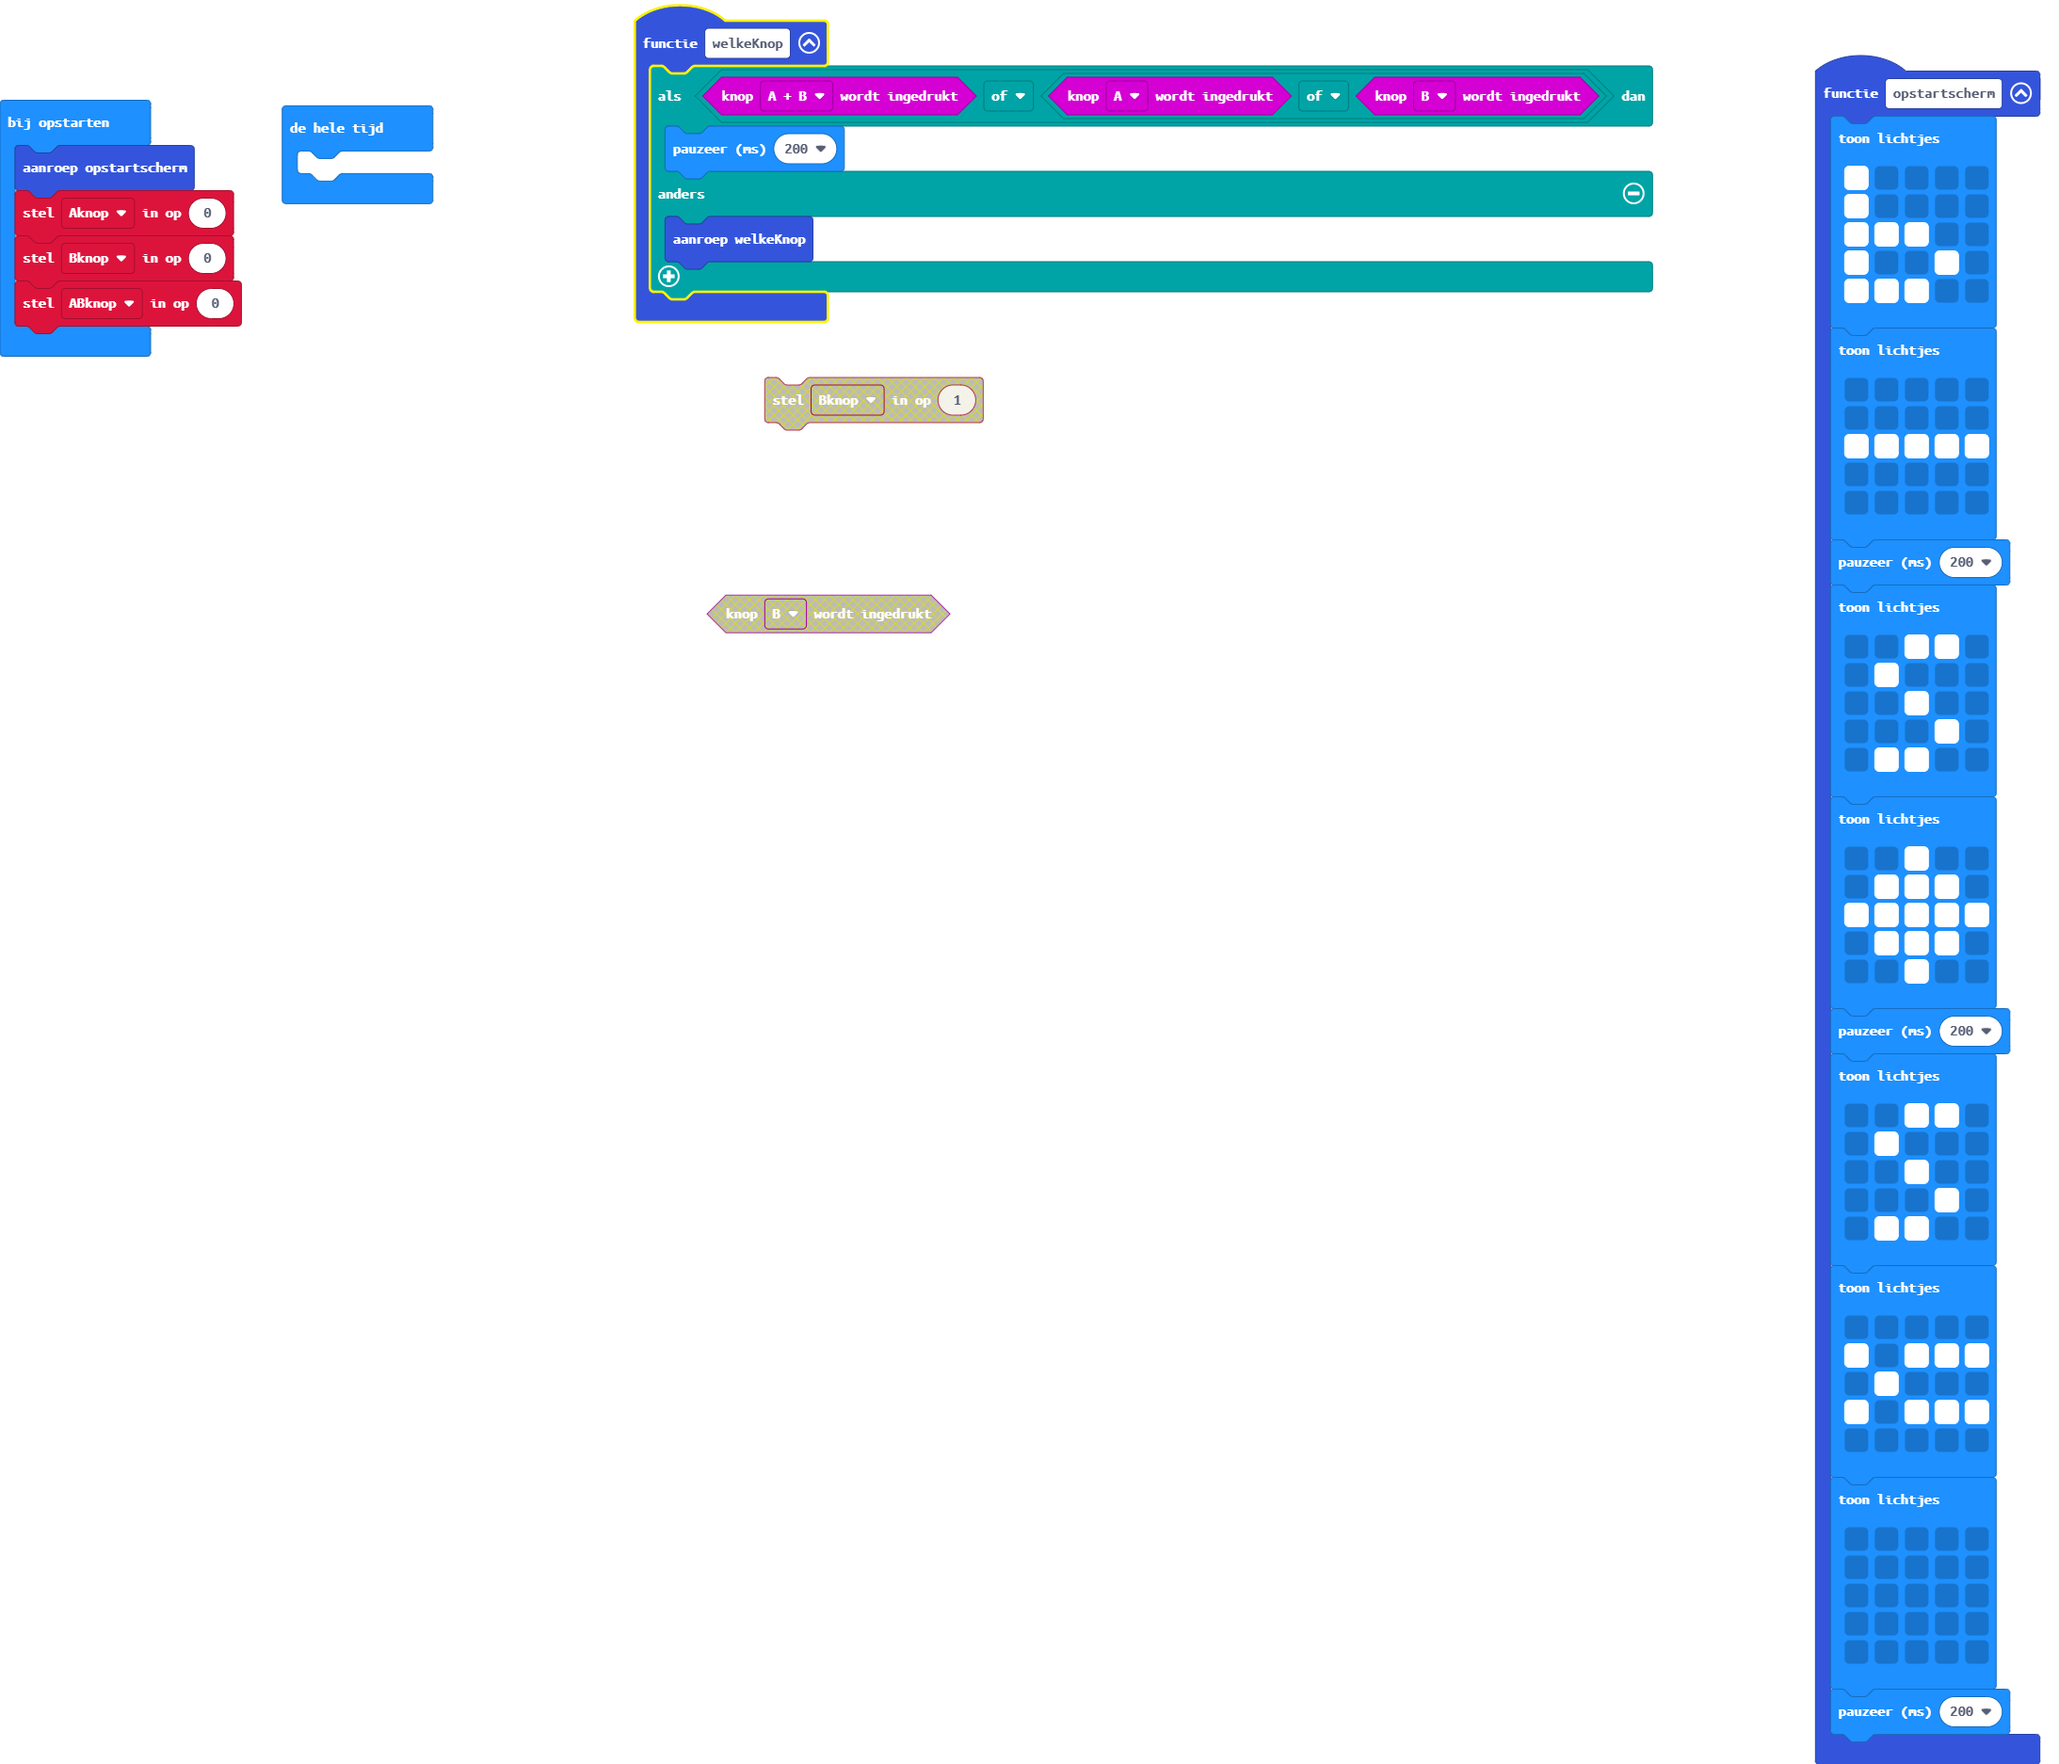
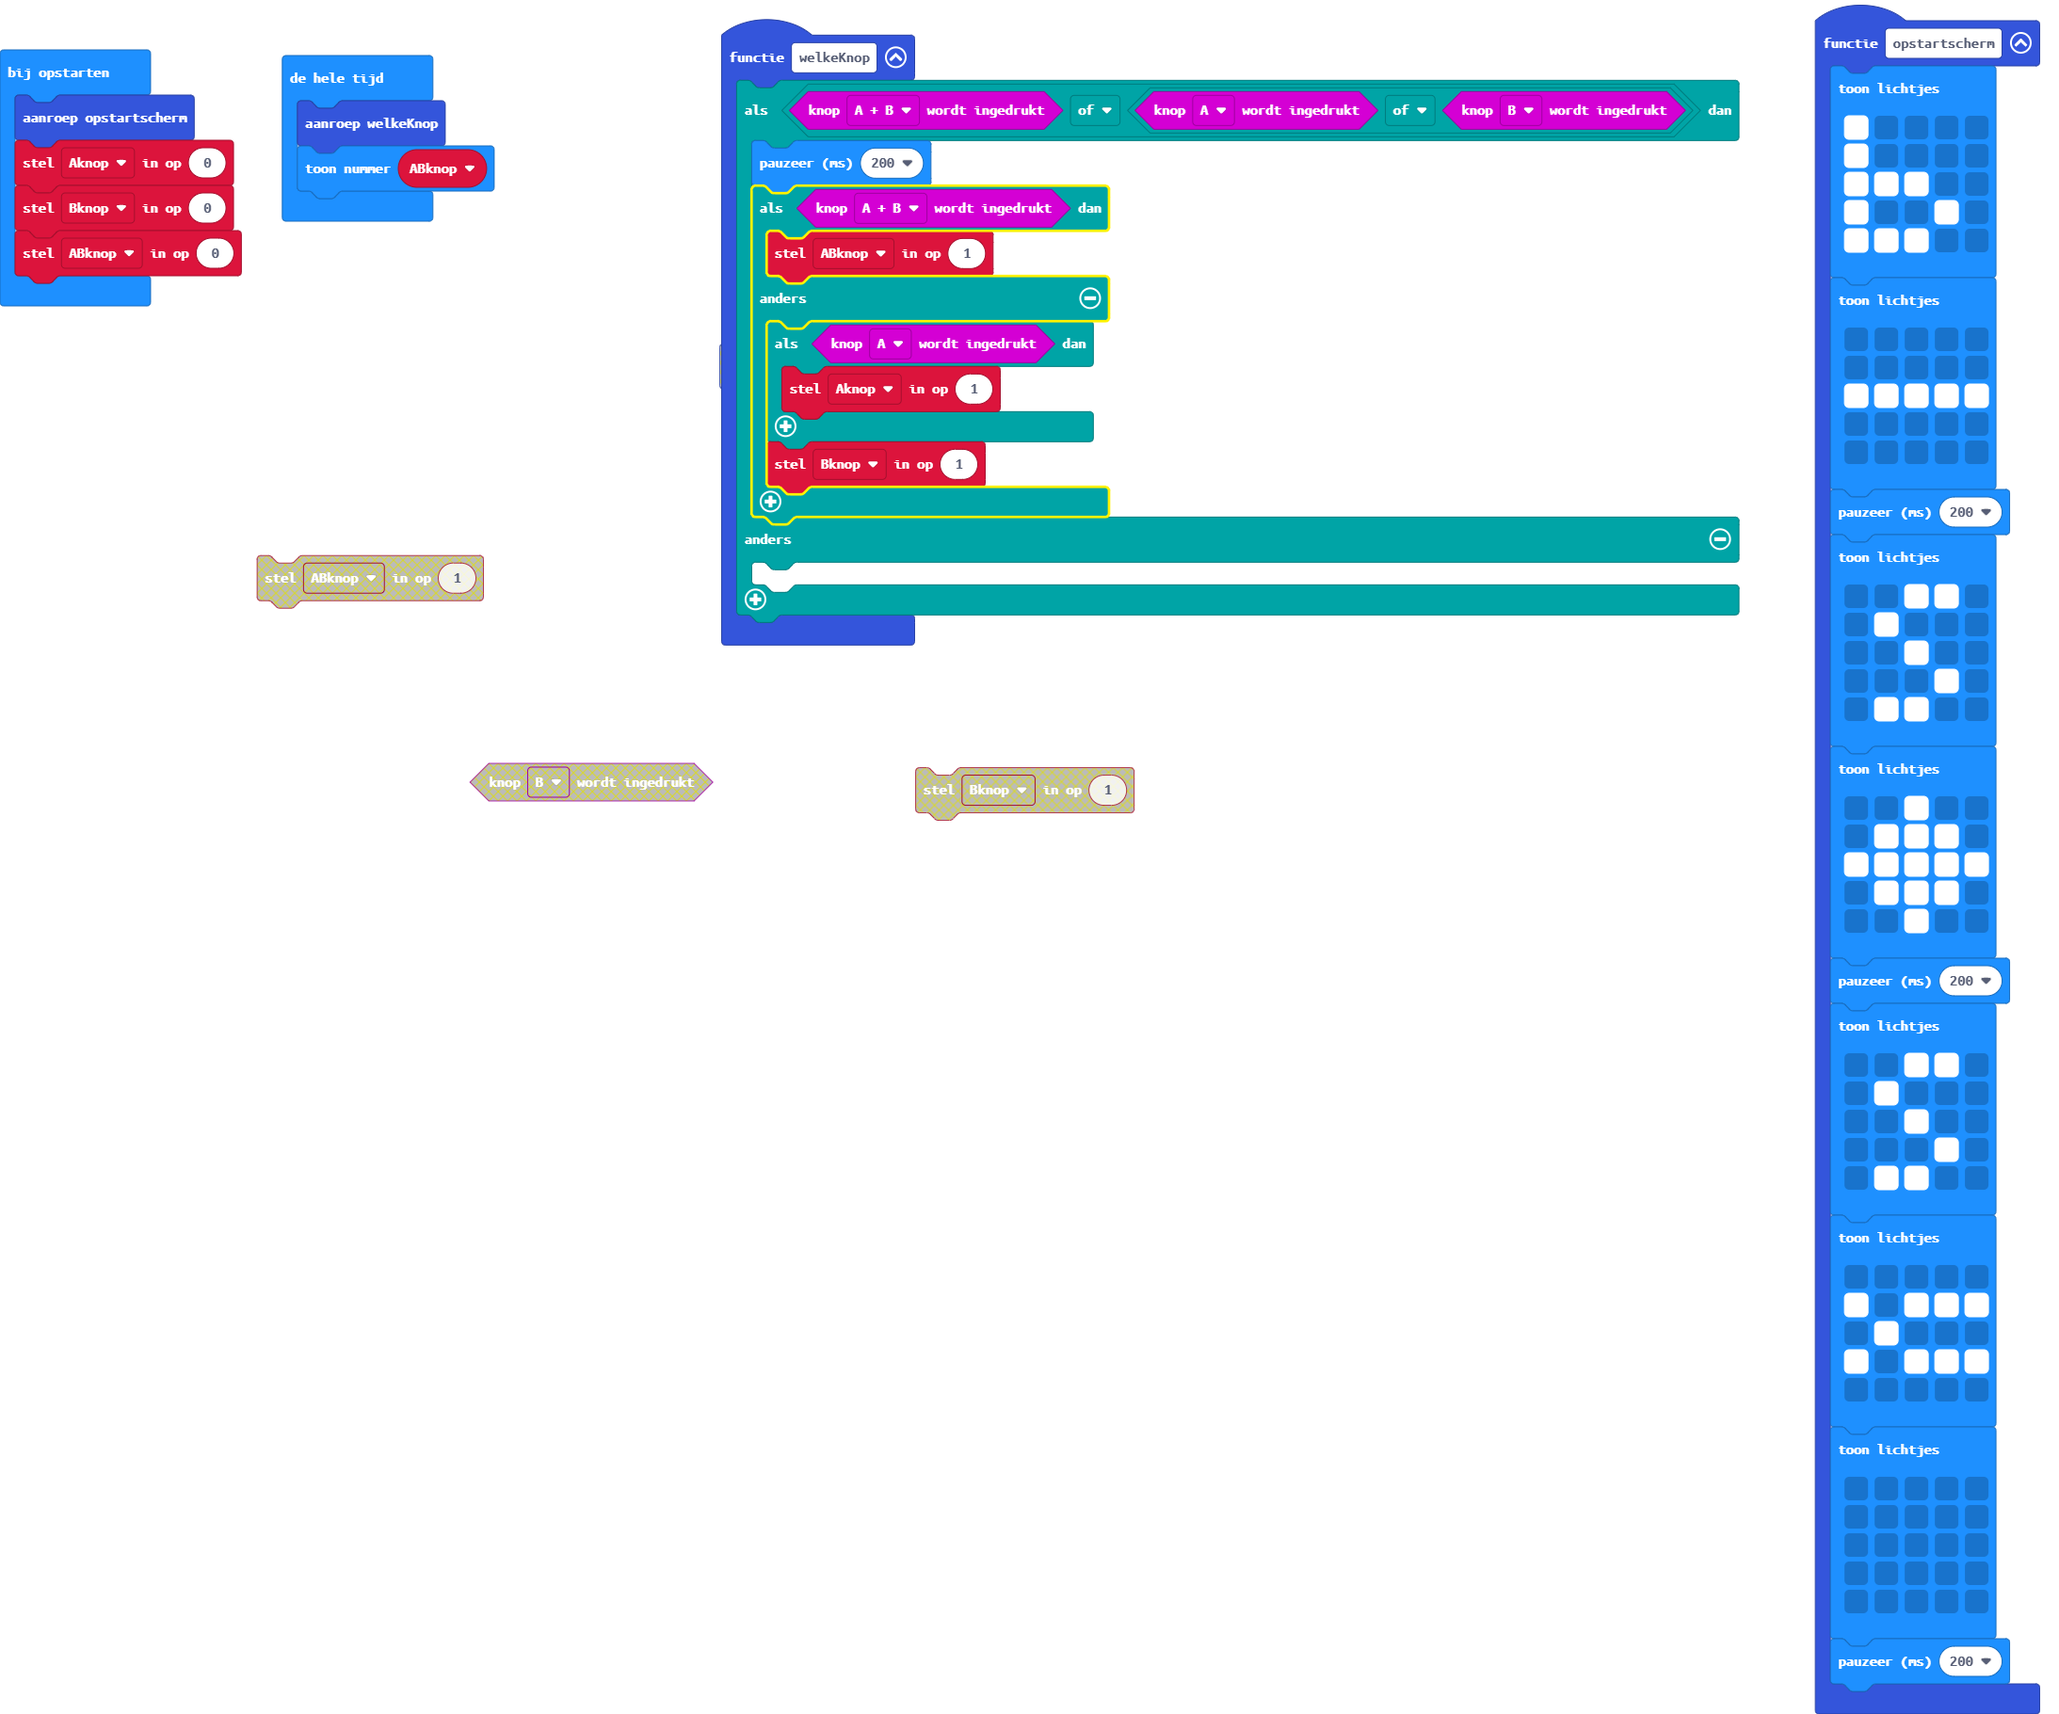
Update main.blocks, main.ts

diff --git a/main.ts b/main.ts
@@ -1,8 +1,16 @@
 function welkeKnop () {
     if (input.buttonIsPressed(Button.AB) || (input.buttonIsPressed(Button.A) || input.buttonIsPressed(Button.B))) {
         basic.pause(200)
+        if (input.buttonIsPressed(Button.AB)) {
+            ABknop = 1
+        } else {
+            if (input.buttonIsPressed(Button.A)) {
+                Aknop = 1
+            }
+            Bknop = 1
+        }
     } else {
-        welkeKnop()
+    	
     }
 }
 function opstartscherm () {
@@ -59,10 +67,14 @@ function opstartscherm () {
         `)
     basic.pause(200)
 }
-opstartscherm()
-let Aknop = 0
-let Bknop = 0
 let ABknop = 0
+let Bknop = 0
+let Aknop = 0
+opstartscherm()
+Aknop = 0
+Bknop = 0
+ABknop = 0
 basic.forever(function () {
-	
+    welkeKnop()
+    basic.showNumber(ABknop)
 })
